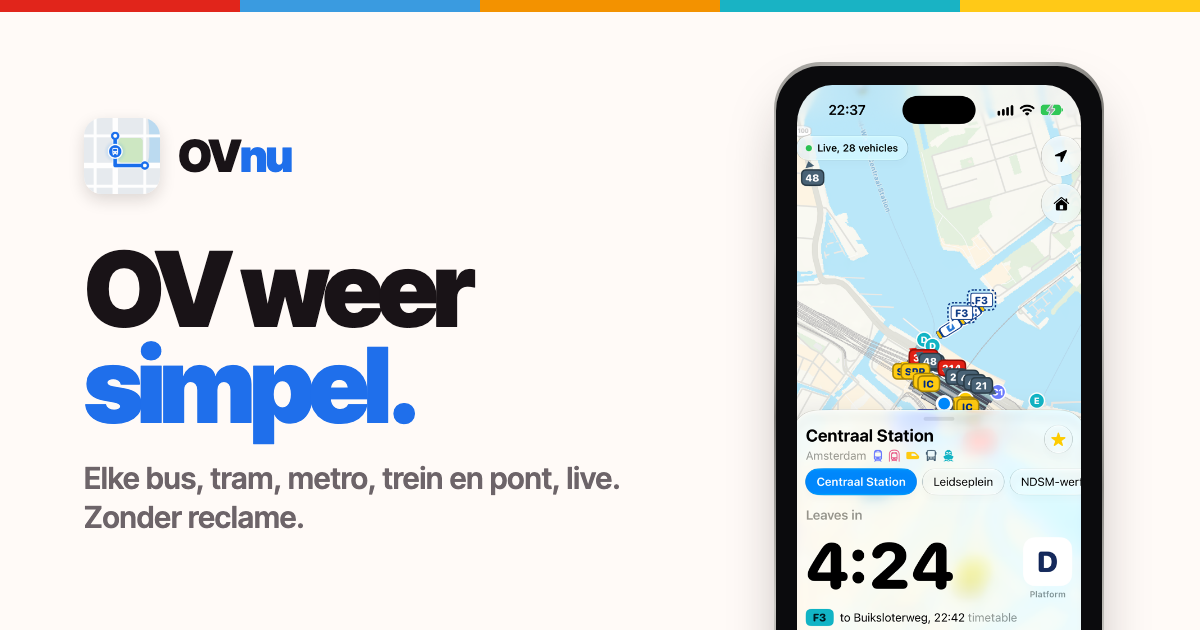
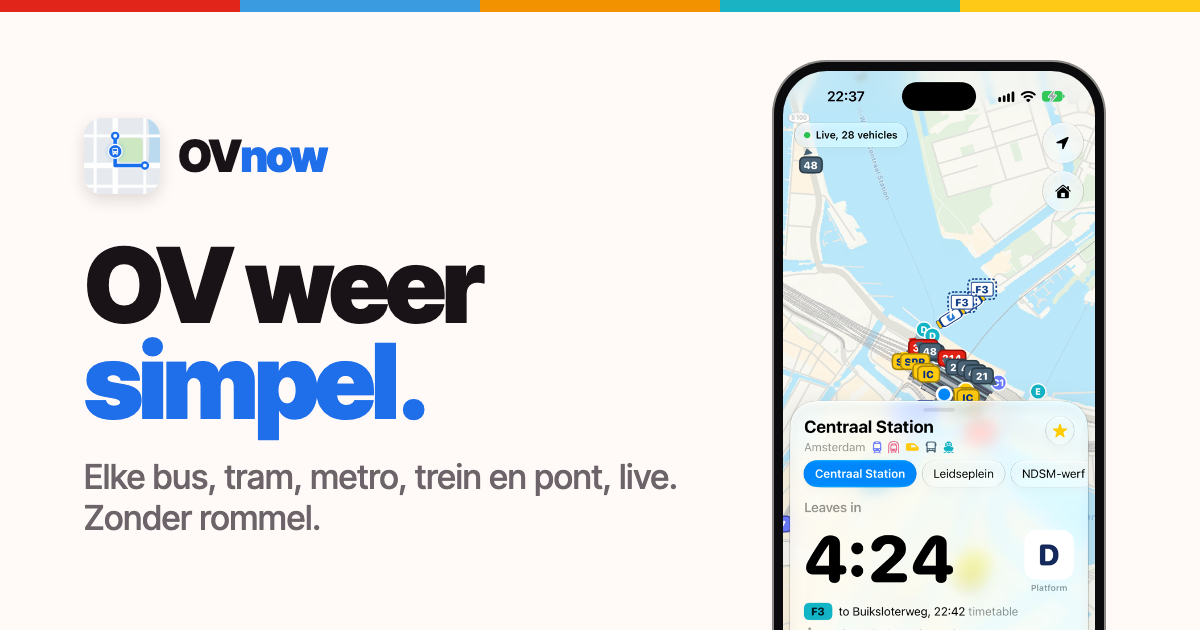
Rename to OVnow and drop free and no-ads claims

Changed region(s): [[0.6167, 0.0905, 0.925, 1.0], [0.0617, 0.3921, 0.555, 0.8444], [0.185, 0.2111, 0.2775, 0.2714]]

diff --git a/index.html b/index.html
@@ -2,9 +2,9 @@
 <html lang="nl">
 <head>
 <meta charset="utf-8">
-<title>OVnu: openbaar vervoer weer simpel</title>
+<title>OVnow: openbaar vervoer weer simpel</title>
 <meta name="viewport" content="width=device-width, initial-scale=1">
-<meta name="description" content="OVnu: elke bus, tram, metro, trein en pont live. Zonder rommel, zonder reclame. Een gratis iPhone-app van FREYcreates.">
+<meta name="description" content="OVnow: elke bus, tram, metro, trein en pont live. Zonder rommel. Een iPhone-app van FREYcreates.">
 <meta name="robots" content="index, follow">
 <meta name="theme-color" content="#fffaf7" media="(prefers-color-scheme: light)">
 <meta name="theme-color" content="#14111a" media="(prefers-color-scheme: dark)">
@@ -16,30 +16,29 @@
 <meta property="og:type" content="website">
 <meta property="og:site_name" content="FREYcreates">
 <meta property="og:url" content="https://ovnow.app">
-<meta property="og:title" content="OVnu: openbaar vervoer weer simpel">
-<meta property="og:description" content="Elke bus, tram, metro, trein en pont live. Zonder rommel, zonder reclame. Gewoon wat je nú nodig hebt.">
-<meta property="og:image" content="https://ovnow.app/img/og.png?v=3">
+<meta property="og:title" content="OVnow: openbaar vervoer weer simpel">
+<meta property="og:description" content="Elke bus, tram, metro, trein en pont live. Zonder rommel. Gewoon wat je nú nodig hebt.">
+<meta property="og:image" content="https://ovnow.app/img/og.png?v=4">
 <meta property="og:image:width" content="1200">
 <meta property="og:image:height" content="630">
-<meta property="og:image:alt" content="OVnu op een iPhone: de F3-pont vertrekt over 4:24 van steiger D.">
+<meta property="og:image:alt" content="OVnow op een iPhone: de F3-pont vertrekt over 4:24 van steiger D.">
 <meta property="og:locale" content="nl_NL">
 <meta property="og:locale:alternate" content="en_GB">
 <meta name="twitter:card" content="summary_large_image">
-<meta name="twitter:title" content="OVnu: openbaar vervoer weer simpel">
-<meta name="twitter:description" content="Elke bus, tram, metro, trein en pont live. Zonder rommel, zonder reclame.">
-<meta name="twitter:image" content="https://ovnow.app/img/og.png?v=3">
+<meta name="twitter:title" content="OVnow: openbaar vervoer weer simpel">
+<meta name="twitter:description" content="Elke bus, tram, metro, trein en pont live. Zonder rommel.">
+<meta name="twitter:image" content="https://ovnow.app/img/og.png?v=4">
 <script type="application/ld+json">
 {
   "@context": "https://schema.org",
   "@type": "MobileApplication",
-  "name": "OVnu",
+  "name": "OVnow",
   "operatingSystem": "iOS",
   "applicationCategory": "TravelApplication",
-  "description": "Elke bus, tram, metro, trein en pont live in Nederland. Zonder account, tracking of reclame.",
+  "description": "Elke bus, tram, metro, trein en pont live in Nederland. Zonder account of tracking.",
   "url": "https://ovnow.app",
   "image": "https://ovnow.app/img/icon.png",
   "inLanguage": ["nl", "en"],
-  "offers": {"@type": "Offer", "price": "0", "priceCurrency": "EUR"},
   "author": {"@type": "Organization", "name": "FREYcreates", "url": "https://freycreates.nl"}
 }
 </script>
@@ -48,7 +47,7 @@
 <link rel="preconnect" href="https://fonts.gstatic.com" crossorigin>
 <link href="https://fonts.googleapis.com/css2?family=Inter+Tight:wght@500;600;700;800;900&display=swap" rel="stylesheet">
 <style>
-  /* freycreates.nl paper and ink, with OVnu blue where FREY uses pink */
+  /* freycreates.nl paper and ink, with OVnow blue where FREY uses pink */
   :root{color-scheme:light;--bg:#fffaf7;--surface:#fffdfb;--text:#191317;--muted:#6d6469;--line:#e6dcd8;
     --blue:#1f6feb;--blue-deep:#0b47b8;--blue-soft:#eaf2ff;
     --l394:#e1251b;--l52:#3a9be0;--l51:#f39200;--ferry:#19b3c4;--ns:#ffc917;
@@ -132,7 +131,7 @@
   @keyframes wait{to{box-shadow:0 0 0 5px rgba(255,201,23,.45)}}
   .train b{position:absolute;top:-9px;right:-10px;padding:0 4px;border-radius:6px;background:#e8730c;color:#fff;font-size:.62rem;line-height:15px}
   .train.gone{opacity:0}
-margin:12px 2px 0;color:var(--muted);font-size:.9rem}
+  .proof{margin:12px 2px 0;color:var(--muted);font-size:.9rem}
 
   /* sections */
   section{padding:72px 0}
@@ -199,9 +198,9 @@ margin:12px 2px 0;color:var(--muted);font-size:.9rem}
 <body>
 <div class="wrap">
   <header class="top">
-    <a class="brand" href="./" aria-label="OVnu">
+    <a class="brand" href="./" aria-label="OVnow">
       <img src="img/icon.png" alt="" width="44" height="44">
-      <span class="wordmark">OV<span>nu</span></span>
+      <span class="wordmark">OV<span>now</span></span>
     </a>
     <div class="lang-switch" role="group" aria-label="Taal / Language">
       <button type="button" data-lang="nl" aria-pressed="true">NL</button>
@@ -213,12 +212,12 @@ margin:12px 2px 0;color:var(--muted);font-size:.9rem}
     <div class="hero">
       <div>
         <h1 data-i18n-html="title">OV weer <em>simpel.</em></h1>
-        <p class="lede" data-i18n-html="lede">Elke bus, tram, metro, trein en pont, live. Zonder rommel, zonder reclame. Gewoon wat je <strong>nú</strong> nodig hebt.</p>
+        <p class="lede" data-i18n-html="lede">Elke bus, tram, metro, trein en pont, live. Zonder rommel. Gewoon wat je <strong>nú</strong> nodig hebt.</p>
         <div class="actions">
           <!-- Shown once the TestFlight link exists: remove "hidden" and fill in href -->
           <a class="button primary" id="testflight" href="#" hidden data-goatcounter-click="testflight">
             <svg viewBox="0 0 24 24"><path d="M12 3v12m0 0-5-5m5 5 5-5M5 21h14"/></svg>
-            <span data-i18n="testflight">Test OVnu op je iPhone</span>
+            <span data-i18n="testflight">Test OVnow op je iPhone</span>
           </a>
           <span class="button primary soon" id="soon">
             <svg viewBox="0 0 24 24"><rect x="7" y="2.5" width="10" height="19" rx="2.5"/><path d="M11 18.5h2"/></svg>
@@ -229,7 +228,7 @@ margin:12px 2px 0;color:var(--muted);font-size:.9rem}
             <span data-i18n="privacyBtn">Privacy</span>
           </a>
         </div>
-        <p class="free" data-i18n="free">Gratis. Geen account, geen advertenties. Een fooi kan, hoeft niet.</p>
+        <p class="free" data-i18n="free">Geen account nodig.</p>
       </div>
 
       <div class="board-col">
@@ -303,7 +302,7 @@ margin:12px 2px 0;color:var(--muted);font-size:.9rem}
     <section>
       <div class="privacy">
         <div>
-          <strong data-i18n="privTitle">Gratis. Geen account. Geen tracking. Geen reclame.</strong>
+          <strong data-i18n="privTitle">Geen account. Geen tracking.</strong>
           <p data-i18n="privText">Je locatie wordt alleen gebruikt om haltes en routes te vinden, en nergens bewaard. Je favorieten staan in je eigen iCloud.</p>
         </div>
         <a class="button" href="privacy.html" data-i18n="privLink">Lees de privacyverklaring</a>
@@ -328,9 +327,9 @@ margin:12px 2px 0;color:var(--muted);font-size:.9rem}
 const T = {
   en: {
     title: 'Public transport, <em>simple</em> again.',
-    lede: "Every bus, tram, metro, train and ferry, live. No clutter, no ads. Just what you need, <strong>now</strong>.",
-    testflight: "Test OVnu on your iPhone", soon: "Coming soon to iPhone", privacyBtn: "Privacy",
-    free: "Free. No account, no ads. A tip is welcome, never required.",
+    lede: "Every bus, tram, metro, train and ferry, live. No clutter. Just what you need, <strong>now</strong>.",
+    testflight: "Test OVnow on your iPhone", soon: "Coming soon to iPhone", privacyBtn: "Privacy",
+    free: "No account needed.",
     statusLive: "Live from Amsterdam Centraal", statusTimetable: "Timetable, Amsterdam Centraal",
     track: "Track", leaves: "Leaves in", toHfd: "to Hoofddorp via Schiphol", now: "now", then: "Then",
     proof: "This isn't a demo. These trains are really running.",
@@ -345,11 +344,11 @@ const T = {
     f4t: "Plan, or just go home", f4p: "Metro 52 to Vijzelgracht, then tram 19 to Leidseplein. Or one tap: Get me home.",
     f5t: "Your daily route", f5p: "Every tram, metro, bus, train or ferry, in one list. On your Home Screen too.",
     f6t: "On your Lock Screen", f6p: "Your next train, metro, tram, bus or ferry. Track or stop included, without opening your phone. Live!",
-    a1: "OVnu: the F3 ferry leaves in 4:24 from pier D", a2: "OVnu map in dark mode: Sprinter 8285 to Hoofddorp has just left Amsterdam Centraal, next stop Sloterdijk",
-    a3: "Lock Screen with an OVnu journey: walk to Centraal Station, tram 2 leaves 22:50 from platform B2",
-    a4: "Planning Centraal Station to Leidseplein: metro 52 and tram 19, or tram 2 direct", a5: "Home screen with two OVnu widgets for the daily route Centraal Station to Leidseplein: trams 2, 17 and 24",
+    a1: "OVnow: the F3 ferry leaves in 4:24 from pier D", a2: "OVnow map in dark mode: Sprinter 8285 to Hoofddorp has just left Amsterdam Centraal, next stop Sloterdijk",
+    a3: "Lock Screen with an OVnow journey: walk to Centraal Station, tram 2 leaves 22:50 from platform B2",
+    a4: "Planning Centraal Station to Leidseplein: metro 52 and tram 19, or tram 2 direct", a5: "Home screen with two OVnow widgets for the daily route Centraal Station to Leidseplein: trams 2, 17 and 24",
     a6: "Lock Screen widgets: the F3 ferry in 1:50 from platform D at Centraal Station",
-    privTitle: "Free. No account. No tracking. No ads.", privText: "Your location is only used to find stops and routes, and is never stored. Your favourites live in your own iCloud.",
+    privTitle: "No account. No tracking.", privText: "Your location is only used to find stops and routes, and is never stored. Your favourites live in your own iCloud.",
     privLink: "Read the privacy statement", made: "Made by", contact: "Questions or feedback?", more: "More from FREYcreates →",
     sources: 'Live data from <a href="https://ndovloket.nl">NDOV Loket</a> and <a href="https://ovapi.nl">OVapi</a>. Journey planner by <a href="https://transitous.org">Transitous</a>, walking paths © <a href="https://www.openstreetmap.org/copyright">OpenStreetMap</a> contributors. Maps by Apple.'
   },
@@ -357,9 +356,9 @@ const T = {
     statusTimetable: "Dienstregeling, Amsterdam Centraal", now: "nu", then: "Daarna",
     night: "Vannacht geen Sprinters meer", nightThen: "Vanaf de vroege ochtend rijden ze weer.", late: "min later",
     proofTimetable: "Even volgens de dienstregeling; zo weer live.",
-    a1: "OVnu: de F3-pont vertrekt over 4:24 van steiger D", a2: "OVnu-kaart in donkere modus: Sprinter 8285 naar Hoofddorp is net vertrokken van Amsterdam Centraal, volgende halte Sloterdijk",
-    a3: "Toegangsscherm met een OVnu-reis: loop naar Centraal Station, tram 2 vertrekt 22:50 van perron B2",
-    a4: "Reis plannen van Centraal Station naar Leidseplein: metro 52 en tram 19, of direct met tram 2", a5: "Beginscherm met twee OVnu-widgets voor de vaste route Centraal Station naar Leidseplein: trams 2, 17 en 24",
+    a1: "OVnow: de F3-pont vertrekt over 4:24 van steiger D", a2: "OVnow-kaart in donkere modus: Sprinter 8285 naar Hoofddorp is net vertrokken van Amsterdam Centraal, volgende halte Sloterdijk",
+    a3: "Toegangsscherm met een OVnow-reis: loop naar Centraal Station, tram 2 vertrekt 22:50 van perron B2",
+    a4: "Reis plannen van Centraal Station naar Leidseplein: metro 52 en tram 19, of direct met tram 2", a5: "Beginscherm met twee OVnow-widgets voor de vaste route Centraal Station naar Leidseplein: trams 2, 17 en 24",
     a6: "Toegangsscherm-widgets: de F3-pont over 1:50 van perron D bij Centraal Station"
   }
 };

diff --git a/privacy.html b/privacy.html
@@ -3,8 +3,8 @@
 <head>
 <meta charset="utf-8">
 <meta name="viewport" content="width=device-width, initial-scale=1">
-<title>OVnu: privacy</title>
-<meta name="description" content="Privacyverklaring van OVnu, de gratis OV-app van FREYcreates. Geen account, geen tracking, geen reclame.">
+<title>OVnow: privacy</title>
+<meta name="description" content="Privacyverklaring van OVnow, de OV-app van FREYcreates. Geen account, geen tracking.">
 <link rel="canonical" href="https://ovnow.app/privacy.html">
 <link rel="icon" href="img/icon-180.png">
 <link rel="apple-touch-icon" href="img/icon-180.png">
@@ -44,7 +44,7 @@
 <body>
 <div class="wrap">
   <header class="top">
-    <a class="brand" href="./" aria-label="OVnu"><img src="img/icon-180.png" alt="" width="40" height="40"><span class="wordmark">OV<span>nu</span></span></a>
+    <a class="brand" href="./" aria-label="OVnow"><img src="img/icon-180.png" alt="" width="40" height="40"><span class="wordmark">OV<span>now</span></span></a>
     <div class="lang-switch" role="group" aria-label="Taal / Language">
       <button type="button" data-lang="nl" aria-pressed="true">NL</button>
       <button type="button" data-lang="en" aria-pressed="false">EN</button>
@@ -54,29 +54,29 @@
   <main>
     <div lang-block="nl">
       <h1>Privacy</h1>
-      <p class="lede">Kort: geen account, geen tracking, geen reclame. OVnu wil niet weten wie je bent.</p>
+      <p class="lede">Kort: geen account, geen tracking. OVnow wil niet weten wie je bent.</p>
 
       <h2>Wat de app niet doet</h2>
       <ul>
         <li>Je hoeft geen account te maken. Er is geen inlog.</li>
-        <li>Er zit geen reclame in, en geen advertentie- of trackingcode van anderen.</li>
+        <li>Er zit op dit moment geen reclame in, en geen advertentie- of trackingcode van anderen.</li>
         <li>Je gegevens worden niet verkocht of gedeeld voor marketing.</li>
       </ul>
 
       <h2>Je locatie</h2>
-      <p>Als je dat toestaat, gebruikt OVnu je locatie om haltes in de buurt te tonen, je looptijd uit te rekenen en routes te plannen vanaf waar je bent. Daarvoor stuurt de app je positie naar de OVnu-server. Voor een reisplanning gaat je begin- en eindpunt ook naar <a href="https://transitous.org">Transitous</a>, de open reisplanner die OVnu gebruikt. De OVnu-server bewaart deze verzoeken niet en houdt geen logboek bij van wie wat vraagt.</p>
+      <p>Als je dat toestaat, gebruikt OVnow je locatie om haltes in de buurt te tonen, je looptijd uit te rekenen en routes te plannen vanaf waar je bent. Daarvoor stuurt de app je positie naar de OVnow-server. Voor een reisplanning gaat je begin- en eindpunt ook naar <a href="https://transitous.org">Transitous</a>, de open reisplanner die OVnow gebruikt. De OVnow-server bewaart deze verzoeken niet en houdt geen logboek bij van wie wat vraagt.</p>
 
       <h2>Wat op je iPhone blijft</h2>
-      <p>Je favorieten, je thuis- en werkadres, je vaste routes, geplande reizen en instellingen staan op je iPhone. Staat iCloud aan in de instellingen van OVnu, dan worden ze via je eigen iCloud-account tussen je apparaten gesynchroniseerd. Daar kan alleen jij bij, niet FREYcreates.</p>
+      <p>Je favorieten, je thuis- en werkadres, je vaste routes, geplande reizen en instellingen staan op je iPhone. Staat iCloud aan in de instellingen van OVnow, dan worden ze via je eigen iCloud-account tussen je apparaten gesynchroniseerd. Daar kan alleen jij bij, niet FREYcreates.</p>
 
       <h2>Meldingen en agenda</h2>
-      <p>Herinneringen voor je reizen maakt de app op je iPhone zelf. Als je een reis aan je agenda toevoegt, schrijft OVnu alleen dat ene item. De app kan je agenda niet lezen.</p>
+      <p>Herinneringen voor je reizen maakt de app op je iPhone zelf. Als je een reis aan je agenda toevoegt, schrijft OVnow alleen dat ene item. De app kan je agenda niet lezen.</p>
 
       <h2>Kaarten en adressen</h2>
       <p>De kaart en het zoeken naar adressen komen van Apple Maps, volgens het <a href="https://www.apple.com/nl/legal/privacy/">privacybeleid van Apple</a>.</p>
 
       <h2>Deze website</h2>
-      <p>De site telt bezoeken met <a href="https://www.goatcounter.com">GoatCounter</a>: zonder cookies en zonder je te volgen over andere sites. Het lettertype komt van Google Fonts. De live vertrektijden op de site komen van de OVnu-server.</p>
+      <p>De site telt bezoeken met <a href="https://www.goatcounter.com">GoatCounter</a>: zonder cookies en zonder je te volgen over andere sites. Het lettertype komt van Google Fonts. De live vertrektijden op de site komen van de OVnow-server.</p>
 
       <h2>Vragen</h2>
       <p>Mail naar <a href="mailto:ovnu.app@icloud.com">ovnu.app@icloud.com</a>. Wijzigt er iets aan deze verklaring, dan staat dat hier.</p>
@@ -85,29 +85,29 @@
 
     <div lang-block="en">
       <h1>Privacy</h1>
-      <p class="lede">In short: no account, no tracking, no ads. OVnu doesn't want to know who you are.</p>
+      <p class="lede">In short: no account, no tracking. OVnow doesn't want to know who you are.</p>
 
       <h2>What the app doesn't do</h2>
       <ul>
         <li>You don't need an account. There is no sign-in.</li>
-        <li>There are no ads, and no advertising or tracking code from anyone else.</li>
+        <li>There are currently no ads, and no advertising or tracking code from anyone else.</li>
         <li>Your data is never sold or shared for marketing.</li>
       </ul>
 
       <h2>Your location</h2>
-      <p>If you allow it, OVnu uses your location to show nearby stops, work out your walking time and plan routes from where you are. To do that, the app sends your position to the OVnu server. For a journey plan, your start and end points also go to <a href="https://transitous.org">Transitous</a>, the open journey planner OVnu uses. The OVnu server doesn't store these requests and keeps no log of who asks what.</p>
+      <p>If you allow it, OVnow uses your location to show nearby stops, work out your walking time and plan routes from where you are. To do that, the app sends your position to the OVnow server. For a journey plan, your start and end points also go to <a href="https://transitous.org">Transitous</a>, the open journey planner OVnow uses. The OVnow server doesn't store these requests and keeps no log of who asks what.</p>
 
       <h2>What stays on your iPhone</h2>
-      <p>Your favourites, home and work addresses, daily routes, planned journeys and settings are stored on your iPhone. With iCloud switched on in OVnu's settings, they sync between your devices through your own iCloud account. Only you can access that, not FREYcreates.</p>
+      <p>Your favourites, home and work addresses, daily routes, planned journeys and settings are stored on your iPhone. With iCloud switched on in OVnow's settings, they sync between your devices through your own iCloud account. Only you can access that, not FREYcreates.</p>
 
       <h2>Notifications and calendar</h2>
-      <p>Reminders for your journeys are created on your iPhone itself. When you add a journey to your calendar, OVnu writes only that one event. The app can't read your calendar.</p>
+      <p>Reminders for your journeys are created on your iPhone itself. When you add a journey to your calendar, OVnow writes only that one event. The app can't read your calendar.</p>
 
       <h2>Maps and addresses</h2>
       <p>The map and address search come from Apple Maps, under <a href="https://www.apple.com/legal/privacy/">Apple's privacy policy</a>.</p>
 
       <h2>This website</h2>
-      <p>The site counts visits with <a href="https://www.goatcounter.com">GoatCounter</a>: no cookies, and no following you across other sites. The typeface comes from Google Fonts. The live departures on the site come from the OVnu server.</p>
+      <p>The site counts visits with <a href="https://www.goatcounter.com">GoatCounter</a>: no cookies, and no following you across other sites. The typeface comes from Google Fonts. The live departures on the site come from the OVnow server.</p>
 
       <h2>Questions</h2>
       <p>Email <a href="mailto:ovnu.app@icloud.com">ovnu.app@icloud.com</a>. If anything in this statement changes, you'll find it here.</p>
@@ -115,7 +115,7 @@
     </div>
   </main>
 
-  <footer><a href="./">← OVnu</a> · <a href="https://freycreates.nl">FREYcreates</a></footer>
+  <footer><a href="./">← OVnow</a> · <a href="https://freycreates.nl">FREYcreates</a></footer>
 </div>
 <script>
 function setLang(l) {
